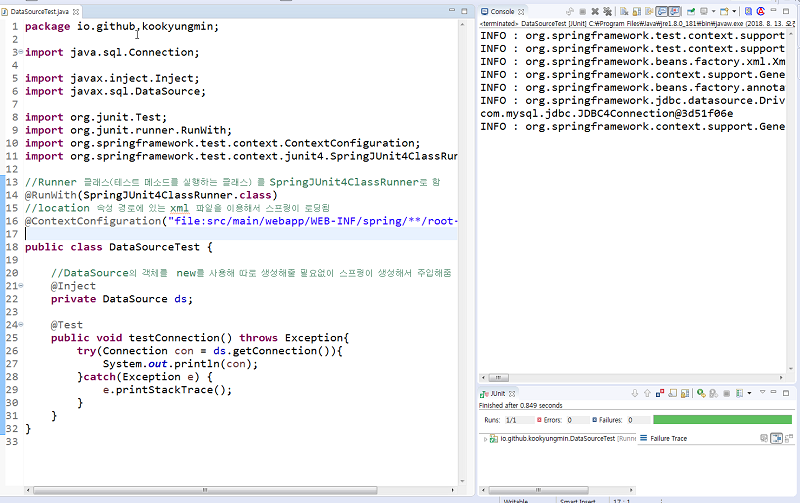
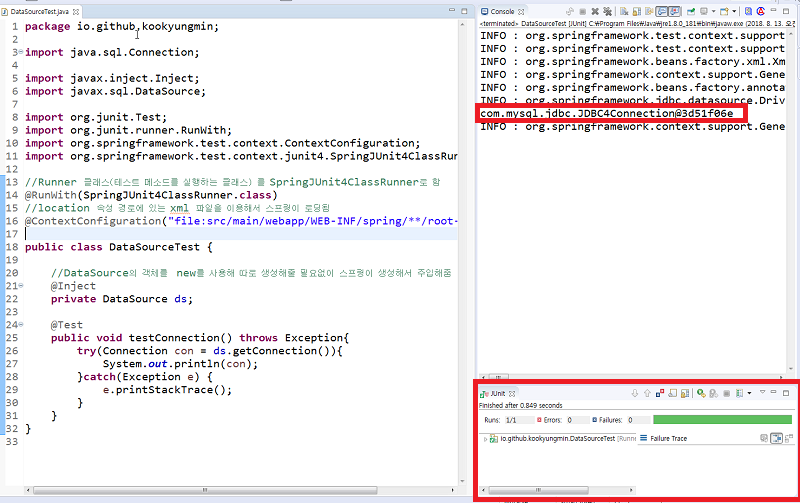
수정

Changed region(s): [[0.5938, 0.7455, 1.0, 1.0], [0.5938, 0.1789, 0.9375, 0.2684]]

diff --git a/_posts/Spring/2018-08-13-spring_05.md b/_posts/Spring/2018-08-13-spring_05.md
@@ -1,0 +1,184 @@
+---
+
+layout: post
+
+title:  "[Spring] 5.MyBatis설정-SqlSessionFactory"
+
+subtitle: "[Spring] 5.MyBatis설정-SqlSessionFactory"
+
+date:   2018-08-09 09:00:20 -0500
+
+categories: Server
+
+tags: spring
+
+---
+
+<br>
+<br>
+
+## MyBatis와 Mysql 연결
+
+<br>
+<br>
+저번 장에서 DataSource를 설정하고 테스트했는데요~
+<br>
+<br>
+이제는 DataSource를 이용하여 직접 저의 Mysql 서버와 MyBatis를 연결시키도록 하게습니다.
+<br>
+<br>
+좀 더 정확하게 말하면 실질적으로 Mysql 서버와 MyBatis를 연결해주는건 SqlSessionFactory라는 객체입니다. 
+<br>
+<br>
+이 객체가 DataSource를 참조하여 MyBatis와 Mysql 서버를 연동시켜줍니다!
+<br>
+<br>
+<br>
+이번 장에서는 SqlSessionFactory 객체를 설정하고, MyBatis와 Mysql 서버의 연결을 테스트해보겠습니다.
+<br>
+<br>
+<br>
+
+## SqlSessionFactory
+
+<br>
+<br>
+SqlSessionFactory는 데이터베이스와의 연결과 SQL의 실행에 대한 모든 것을 가진 가장 중요한 객체입니다!
+<br>
+<br>
+SqlSessionFactory를 생성해주는 특별한 객체를 먼저 설정해주어야하는데요~ 이때 SqlSessionFactoryBean이라는 클래스를 사용합니다!
+<br>
+<br>
+root-context.xml에 다음과 같이 등록합니다
+<br>
+<br>
+<br>
+
+```xml
+<bean id="sqlSessionFactory" class="org.mybatis.spring.SqlSessionFactoryBean">
+    <property name="dataSource" ref="dataSource"></property>
+</bean>
+```
+
+<br>
+<br>
+위의 코드를 보면 sqlSessionFactory가 DataSource를 참조하는 걸 볼 수 있습니다!
+<br>
+<br>
+<br>
+
+## mybatis-config.xml 파일 추가
+
+<br>
+<br>
+MyBatis는 SQL Mapping 프레임워크로 별도의 설정 파일을 가질 수 있습니다.
+<br>
+<br>
+이를 이용하면 스프링의 설정과 별도로 사용하는 모든 MyBatis의 설정 기능을 활용할 수 있습니다.
+<br>
+<br>
+<br>
+우선 src/main/resources에 mybatis-config.xml 파일을 추가해주고,
+<br>
+<br>
+다음과 같이 추가해줍니다!
+<br>
+<br>
+<br>
+
+```xml
+<!-- mybatis-config.xml -->
+
+<?xml version="1.0" encoding="UTF-8"?>
+<!DOCTYPE configuration
+    PUBLIC "-//mybatis.org//DTD Config 3.0//EN"
+    "http://mybatis.org/dtd/mybatis-3-config.dtd">
+<configuration>
+
+</configuration>
+```
+
+<br>
+<br>
+앞으로 Mybatis에 별도의 설정을 주고 싶으면 위의 파일을 이용하면 됩니다.
+<br>
+<br>
+<br>
+그리고 mybatis-config.xml 파일이 스프링이 동작할 때 같이 동작하도록 설정을 해주어야합니다.
+<br>
+<br>
+root-context.xml의 sqlSessionFactory에 다음과 같이 configLocation 속성을 추가합니다!
+<br>
+<br>
+<br>
+
+```xml
+<bean id="sqlSessionFactory" class="org.mybatis.spring.SqlSessionFactoryBean">
+    <property name="dataSource" ref="dataSource"></property>
+    <property name="configLocation" value="classpath:/mybatis-config.xml"></property>
+</bean>
+```
+
+<br>
+<br>
+<br>
+
+## MyBatis 연결테스트
+
+<br>
+<br>
+<br>
+자 그러면 SqlSessionFactory를 이용해 MyBatis와 Mysql 서버가 제대로 연결되는지 테스트해보겠습니다~
+<br>
+<br>
+src/test/java 폴더에 MyBatisTest라는 파일을 만들고 다음과 같이 작성합니다!
+<br>
+<br>
+<br>
+
+```java
+package io.github.kookyungmin;
+
+import javax.inject.Inject;
+
+import org.apache.ibatis.session.SqlSession;
+import org.apache.ibatis.session.SqlSessionFactory;
+import org.junit.Test;
+import org.junit.runner.RunWith;
+import org.springframework.test.context.ContextConfiguration;
+import org.springframework.test.context.junit4.SpringJUnit4ClassRunner;
+
+//Runner 클래스(테스트 메소드를 실행하는 클래스) 를 SpringJUnit4ClassRunner로 함
+@RunWith(SpringJUnit4ClassRunner.class)
+//location 속성 경로에 있는 xml 파일을 이용해서 스프링이 로딩됨
+@ContextConfiguration("file:src/main/webapp/WEB-INF/spring/**/root-context.xml")
+
+public class MyBatisTest {
+	
+	//SqlSessionFactory 객체를 자동으로 생성
+	@Inject
+	private SqlSessionFactory sqlFactory;
+	
+	//SqlSessionFactory 객체가 제대로 만들어졌는지 Test
+	@Test
+	public void testFactory() {
+		System.out.println(sqlFactory);
+	}
+	
+	//MyBatis와 Mysql 서버가 제대로 연결되었는지 Test
+	@Test
+	public void testSession() throws Exception{
+		try(SqlSession session = sqlFactory.openSession()){
+			System.out.println(session);
+		}catch(Exception e) {
+			e.printStackTrace();
+		}
+	}
+}
+```
+
+<br>
+<br>
+<br>
+
+![image](/image/Spring_image/Spring_image_38.png)
